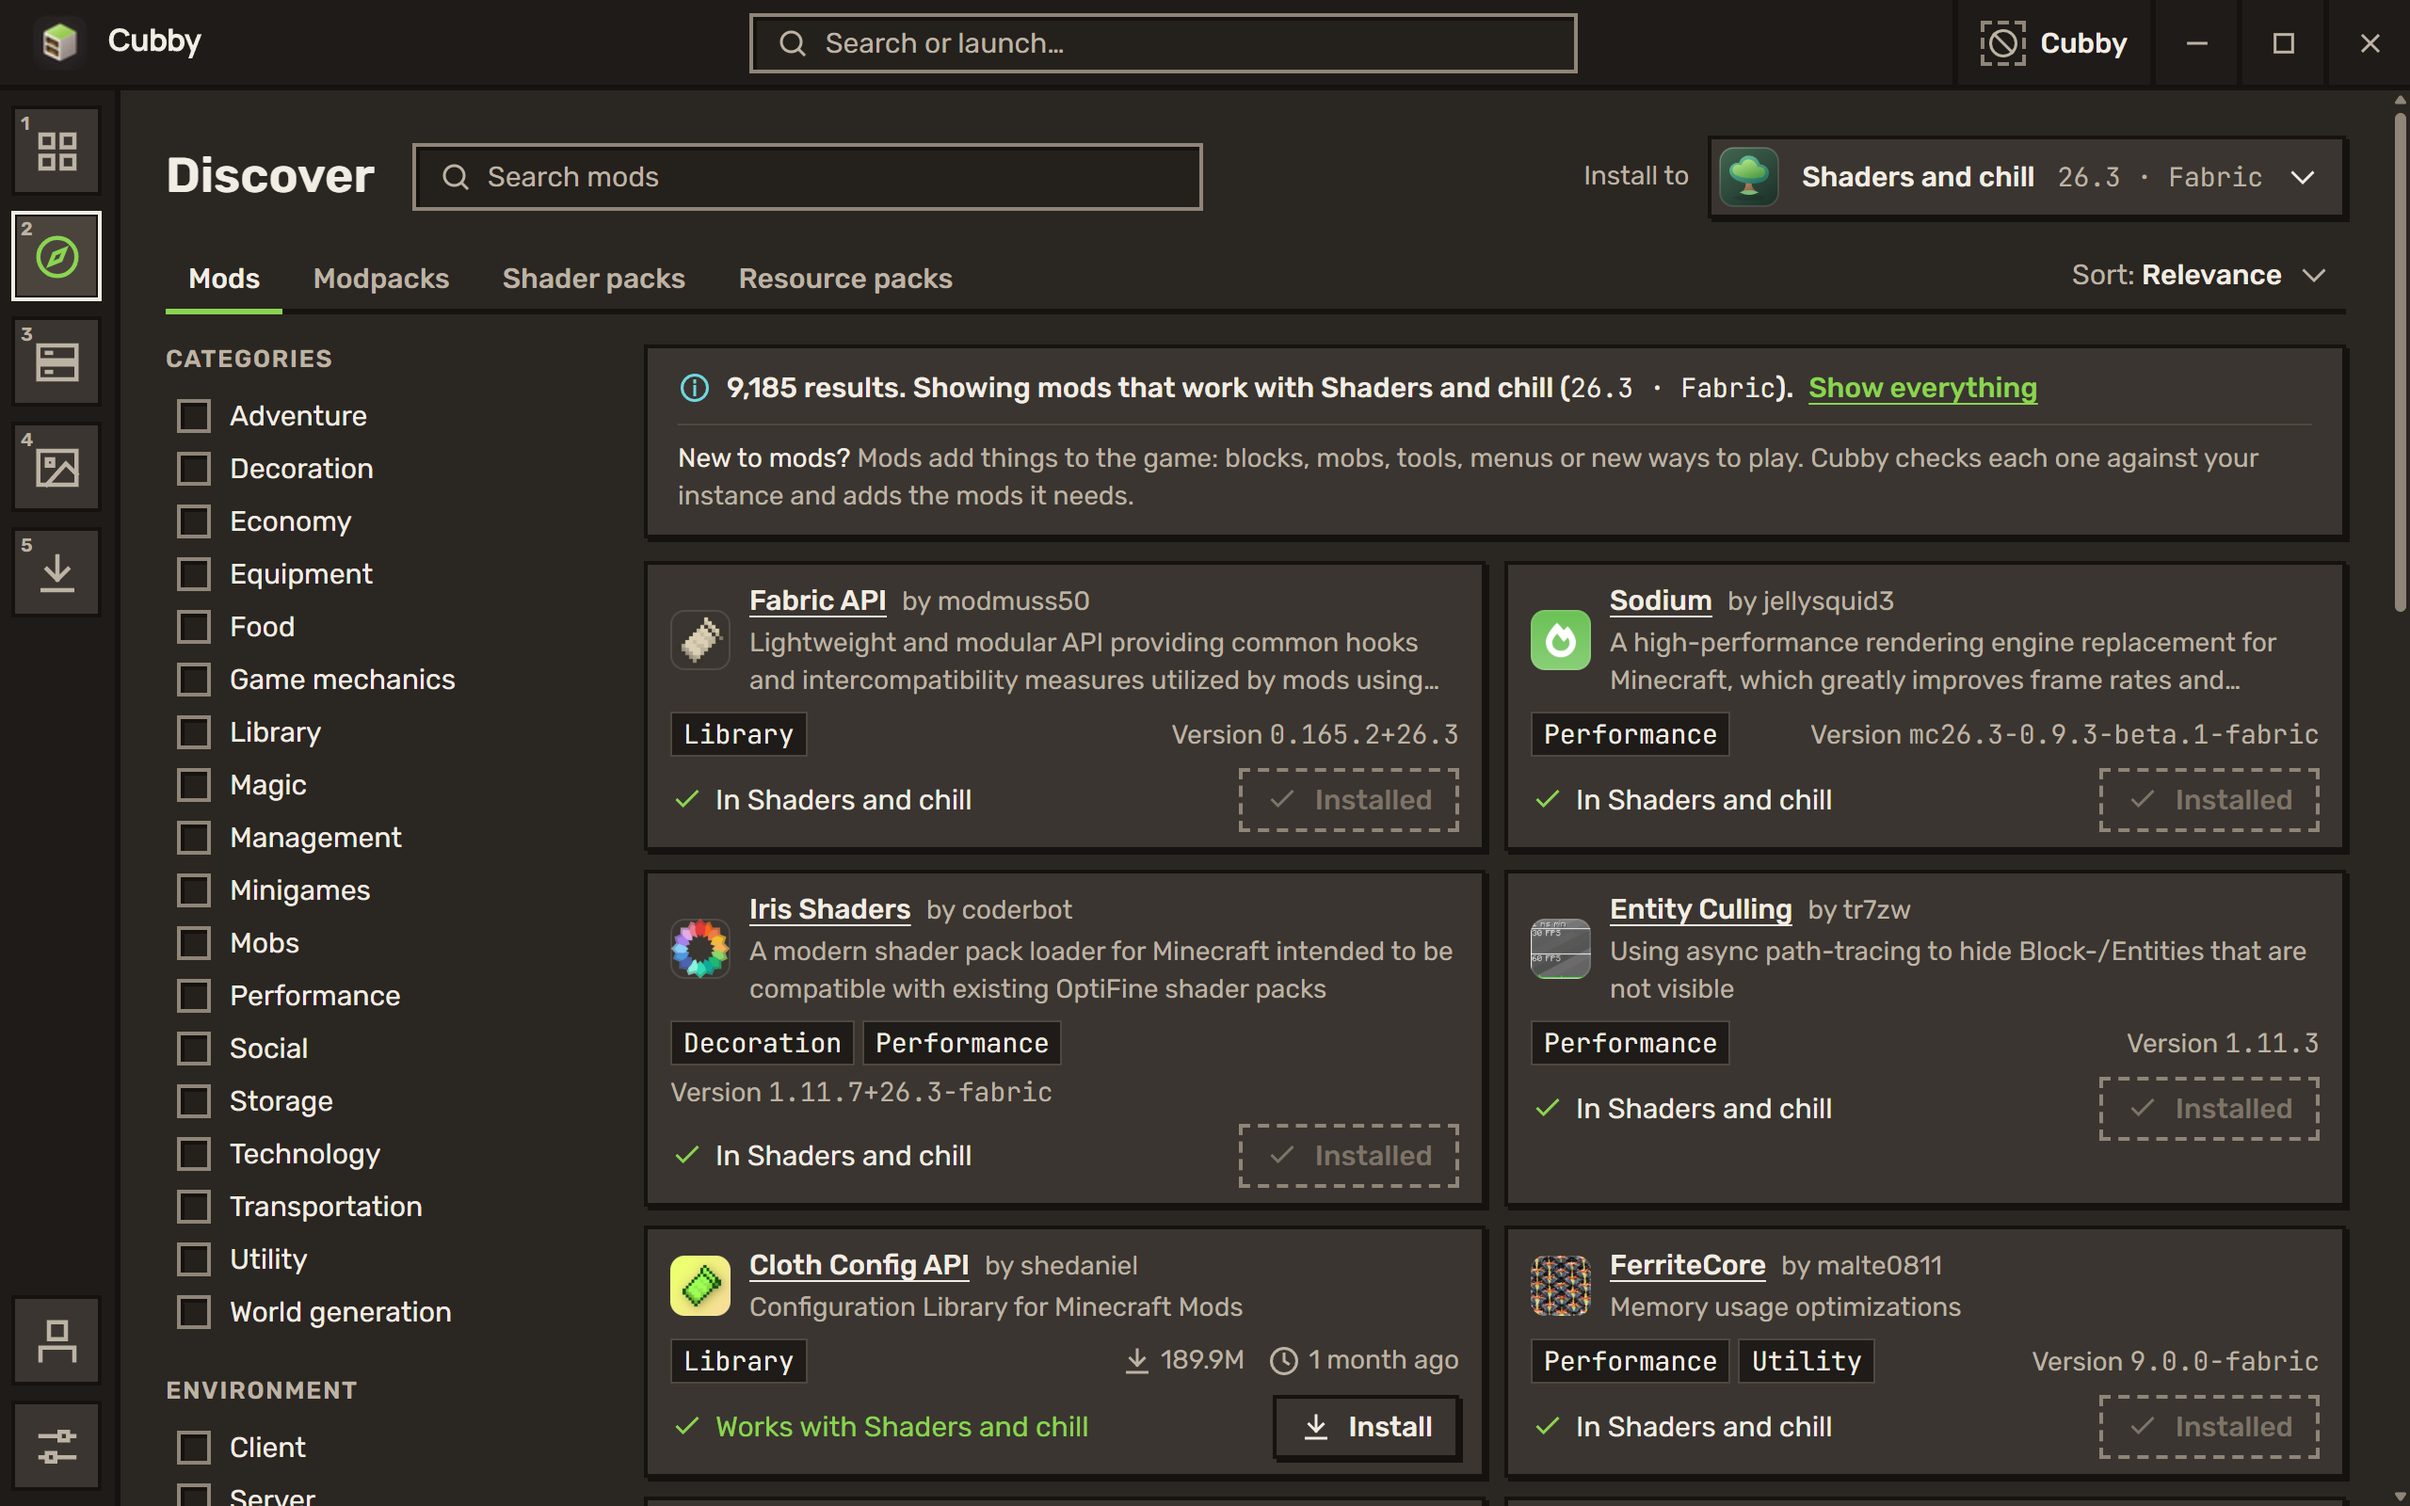
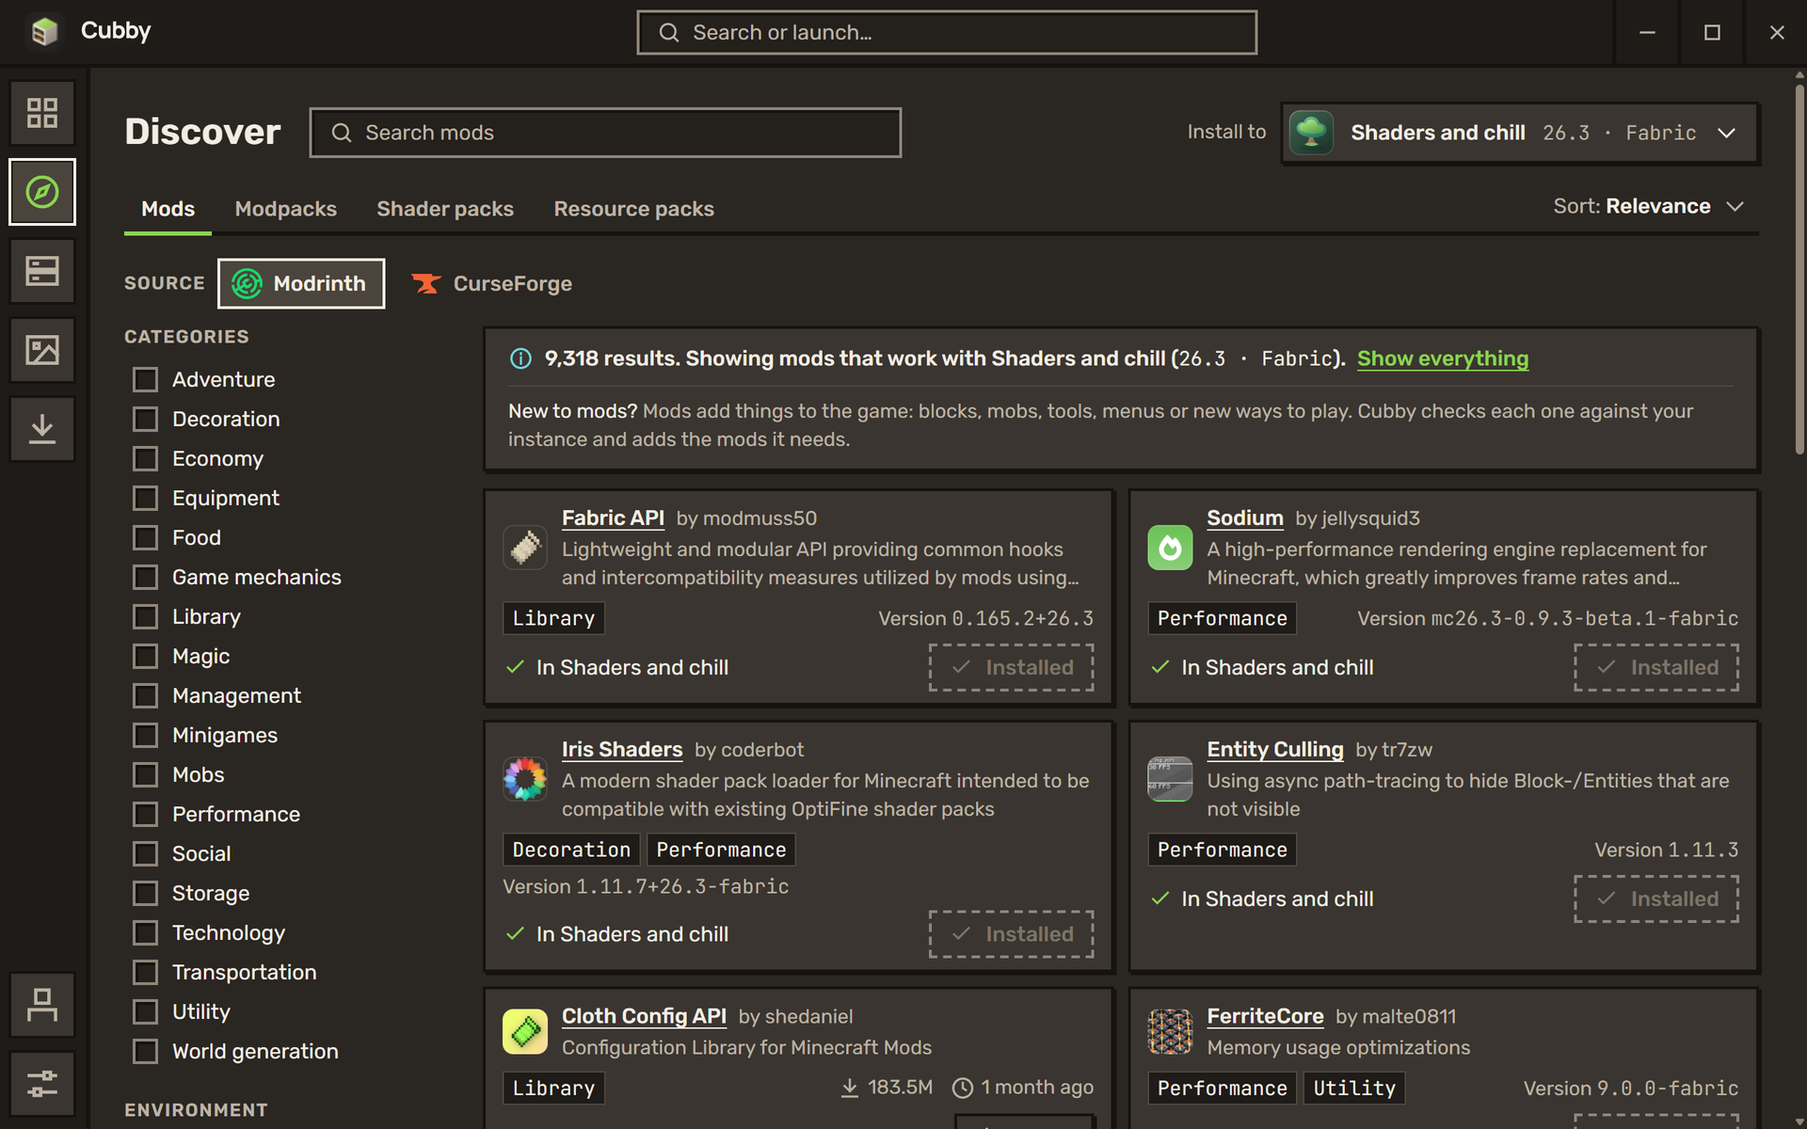
Alpha 2 changelog, new screenshots, and no language reload loop
- The language is applied once the settings are read: a Cubby set to
  another language than the system's no longer reloads over and over
- The alpha 2 notes, in the style of alpha 1
- README and docs screenshots show the new Library, Discover and mod page,
  and the README lists macOS and Linux

diff --git a/ui/src/lib/i18n.svelte.ts b/ui/src/lib/i18n.svelte.ts
@@ -29,17 +29,19 @@ function cachedLang(): Lang | null {
   }
 }
 
-let current = $state<Lang>(cachedLang() ?? systemLang())
 /** The language the page loaded with: module-level tables were built in it. */
-const loaded: Lang = current
+const loaded: Lang = cachedLang() ?? systemLang()
+let current = $state<Lang>(loaded)
 
 /** The language in use. Reading it makes a template follow language changes. */
 export function lang(): Lang {
   return current
 }
 
-/** From Settings: "system", "en" or "fr". */
+/** From Settings: "system", "en" or "fr". Nothing happens before the settings are read (undefined), so a start in another
+ *  language than the system's doesn't reload twice. */
 export function setLanguage(setting: string | null | undefined) {
+  if (setting === undefined) return
   const next: Lang = setting === 'en' || setting === 'fr' ? setting : systemLang()
   let cached = false
   try {

diff --git a/ui/src/App.svelte b/ui/src/App.svelte
@@ -43,7 +43,9 @@
     app.applyAppearance()
   })
 
-  $effect(() => setLanguage(app.settings?.language))
+  $effect(() => {
+    if (app.settings) setLanguage(app.settings.language ?? 'system')
+  })
 
   const activeTasks = $derived(Object.keys(app.tasks).length)
 

diff --git a/.github/releases/v2026.11.0-alpha.2.md b/.github/releases/v2026.11.0-alpha.2.md
@@ -1,22 +1,36 @@
-Cubby now runs on Mac and Linux, keeps itself up to date, and has a brand-new Library.
+<p align="center">Sign in and play the full game, on Windows, Mac and Linux, with a launcher that keeps itself up to date.</p>
 
-Coming from alpha 1? Install this one by hand once. After that, Cubby updates itself.
+![The new Cubby library](https://raw.githubusercontent.com/benjaminbrtrd/Cubby/main/docs/screenshots/library.png)
+
+The second test build of Cubby. Thank you to everyone who tried the first one: a lot of what's below comes from what you told me. If something breaks, [open an issue](https://github.com/benjaminbrtrd/Cubby/issues/new) with the crash report from the app.
 
 ## ✨ What's new
 
-- **Mac and Linux.** Cubby runs on macOS (Apple Silicon and Intel) and on Linux, with the same features as on Windows.
-- **Updates from inside the app.** When a new version is out, a strip under the title bar offers it. Cubby waits until you've finished playing before it restarts.
-- **A new Library.** The instance you pick fills the top of the screen, with a big Play button and the worlds and servers you played last. Your other instances sit on a shelf below.
-- **Jump back in.** One click opens a world or joins a server straight from the Library (Minecraft 1.20 and later).
-- **Quick start.** Pick Vanilla, a fast Fabric setup or a server address, and Cubby sets it up and starts the game.
-- **En français.** Cubby speaks French. Choose the language in Settings.
-- **More to discover.** Modpacks from CurseForge, FTB, ATLauncher and Technic sit in the same grid as Modrinth, with filters. CurseForge mods, shader packs and resource packs are there too.
-- **The last game log stays.** After the game closes, its log is still there to read or share.
-- **Microsoft sign-in** now uses Cubby's own application, approved by Mojang.
+**Sign in with Microsoft.** Mojang approved Cubby. Sign in with the account that owns Minecraft: Java Edition and play the full game, not just the demo.
+
+**Mac and Linux.** Cubby now runs on macOS, on Apple Silicon and Intel Macs, and on Linux. Same launcher, same features, with the window buttons where your system puts them.
+
+**It updates itself.** When a new version is out, a strip under the title bar tells you. Cubby gets it ready in the background and waits until you've finished playing before it restarts.
+
+**A new Library.** The instance you pick fills the top of the screen, with a big Play button and the worlds and servers you played last. Click a world and you're back in it, no menus in between. Your other instances sit on a shelf below.
+
+**Playing in one click.** First time in Cubby? Pick plain Vanilla, a fast Fabric setup, or paste a server address. Cubby sets it all up and starts the game.
+
+**En français.** Cubby speaks French. It follows your system's language, or you can choose one in Settings.
+
+**Modpacks from everywhere, in one place.** Discover shows the modpacks of Modrinth, CurseForge, FTB, ATLauncher and Technic in the same grid, with filters for the loader and the Minecraft version. CurseForge mods, shader packs and resource packs are in there too.
+
+**The last game log stays.** When the game closes, its log is still there to read, or to send to a mod author.
 
 ## 🐛 Fixes
 
-- Filters in Discover fill every page, instead of showing a handful of results.
+- Filters in Discover fill every page, instead of leaving a handful of results on each.
+- Opening a world from the Worlds tab takes you into the world, instead of stopping on the main menu.
 - A mod you removed no longer shows as installed on its page.
-- Opening a world from the Worlds tab goes into the world instead of stopping on the main menu.
-- The Settings list no longer jumps to Updates.
+- Modpack cards no longer show an empty author or zero downloads when the source doesn't give them.
+- The Settings list no longer jumps to Updates on its own.
+
+## ⚠ Good to know
+
+- **Coming from alpha 1?** Install this one by hand, once. From now on, Cubby updates itself.
+- This is still a test build. Back up the worlds you care about before you try something new.

diff --git a/README.md b/README.md
@@ -27,7 +27,7 @@ It's a native app built with Rust and Tauri, so there's no bundled browser and n
 
 ## Download
 
-Cubby runs on Windows 10 and 11 (64-bit). Get the installer from the [releases page](https://github.com/benjaminbrtrd/Cubby/releases). macOS and Linux builds are planned.
+Cubby runs on Windows 10 and 11, on macOS 11 or later (Apple Silicon and Intel) and on 64-bit Linux. Get it from the [releases page](https://github.com/benjaminbrtrd/Cubby/releases).
 
 The full game needs a signed-in Microsoft account that owns Minecraft: Java Edition. Without one, Cubby only starts the Minecraft demo.
 
@@ -39,7 +39,7 @@ To publish a release, push a tag such as `v2026.11.0`: GitHub Actions builds the
 
 ## Building from source
 
-You need [Rust](https://rustup.rs) 1.90 or newer, [Node.js](https://nodejs.org) 20 or newer, and the WebView2 runtime (already installed on Windows 11).
+You need [Rust](https://rustup.rs) 1.90 or newer and [Node.js](https://nodejs.org) 20 or newer. On Windows, the WebView2 runtime (already there on Windows 11). On Linux, WebKitGTK 4.1 and its development files (`libwebkit2gtk-4.1-dev` on Debian and Ubuntu).
 
 ```sh
 git clone https://github.com/benjaminbrtrd/Cubby cubby
